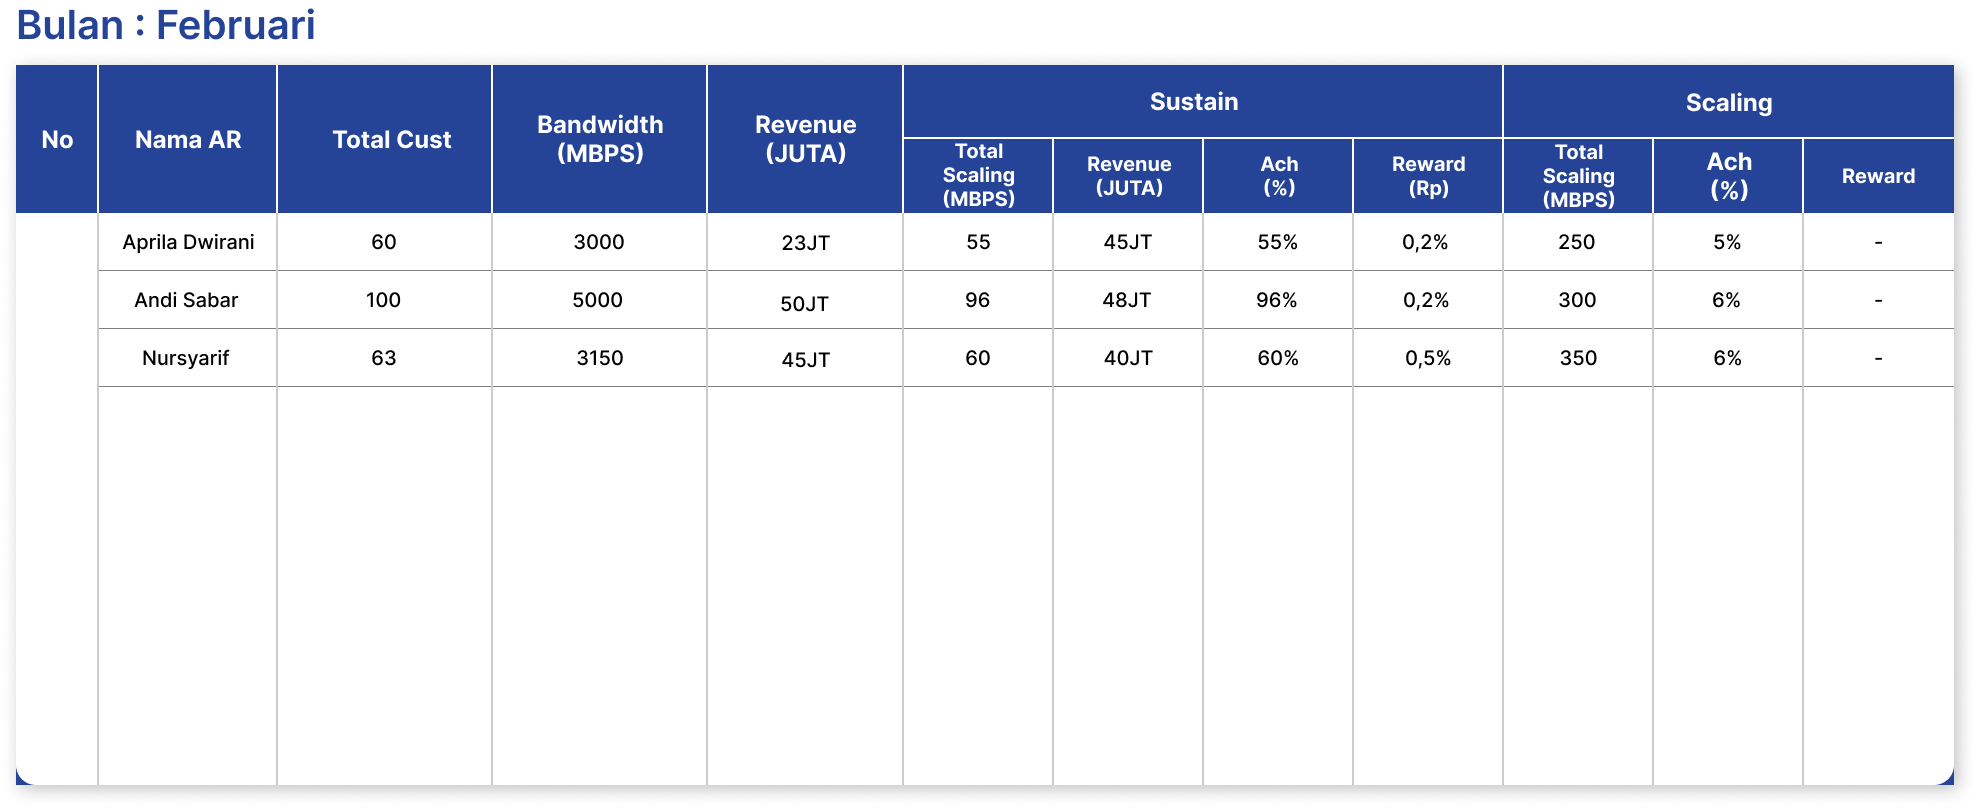
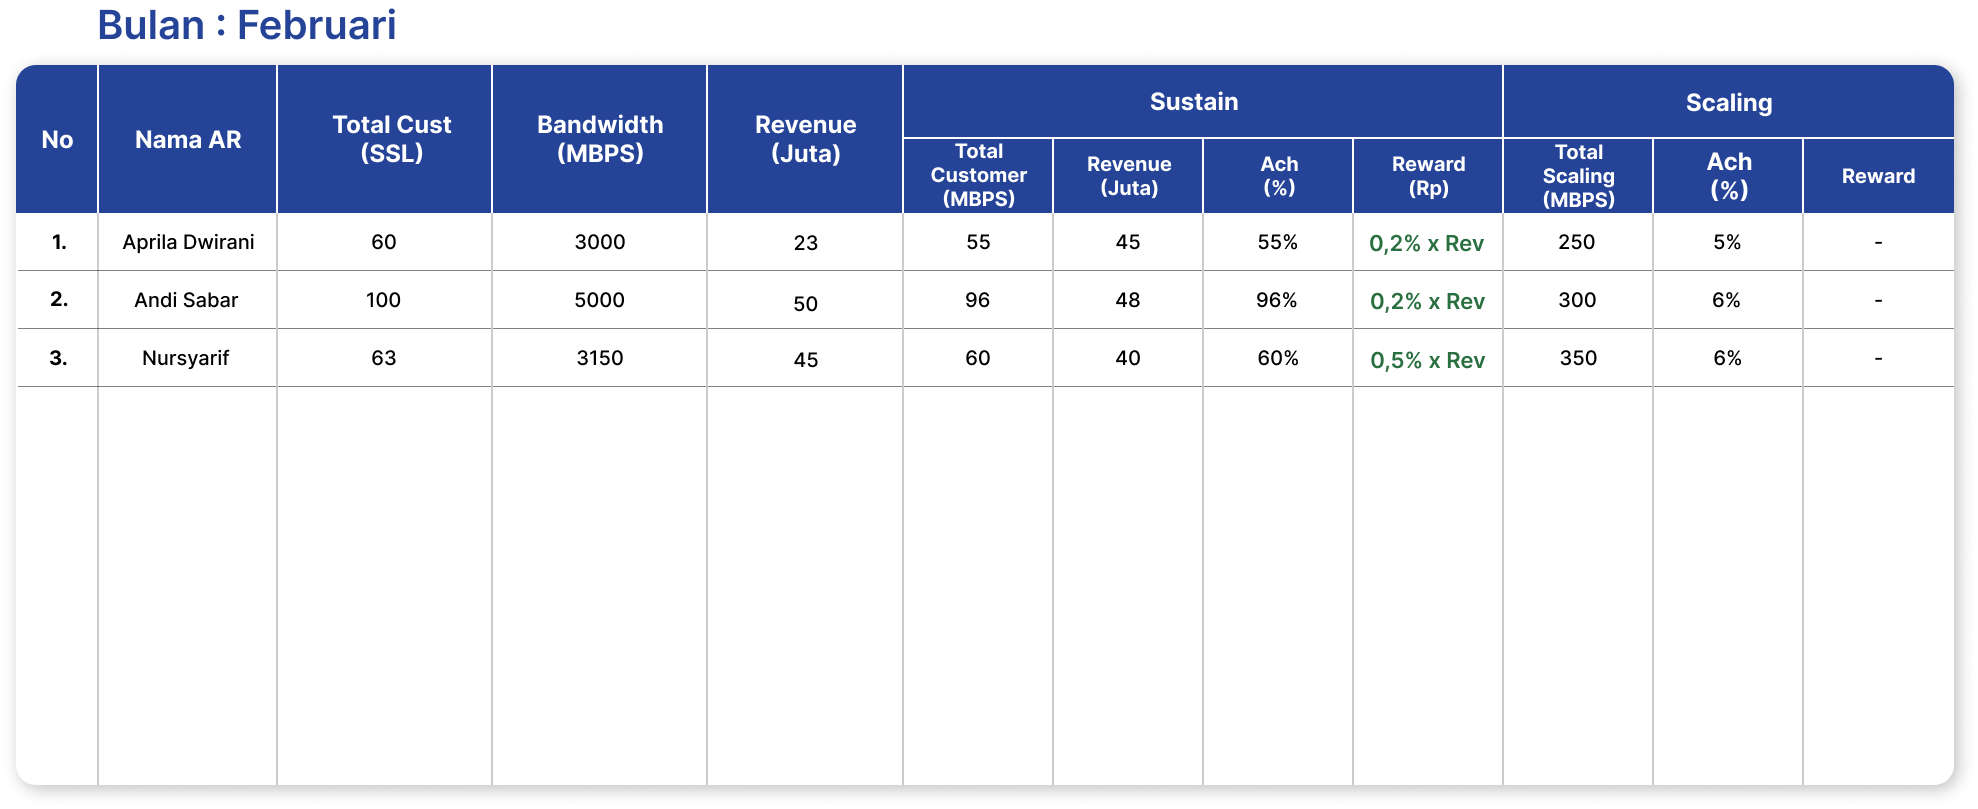
Point Of Interest

diff --git a/index.html b/index.html
@@ -331,7 +331,7 @@
     <div class="container">
       <aside class="sidebar" id="sidebar">
         <div class="logo">
-          <span>Point Of Interest</span>
+          <span>KPI</span>
         </div>
         
         <div class="sidebar-menu">
@@ -643,6 +643,12 @@
             </div>
             <div id="paginationControls" class="pagination"></div>
           </div>
+        </section>
+
+        <section class="content-grid" id="new-feature-visualization">
+            <div class="table-section" style="margin-top: 10px; padding: 24px; background-color: white; border-radius: 12px;">
+                <img src="assets/Mockup-3.png" alt="Visualisasi Fitur Baru" style="width: 100%; border-radius: 12px; box-shadow: var(--shadow-lg);">
+            </div>
         </section>
 
         <!-- Sales Performance Summary Section (for Non-Telda Sales) -->
